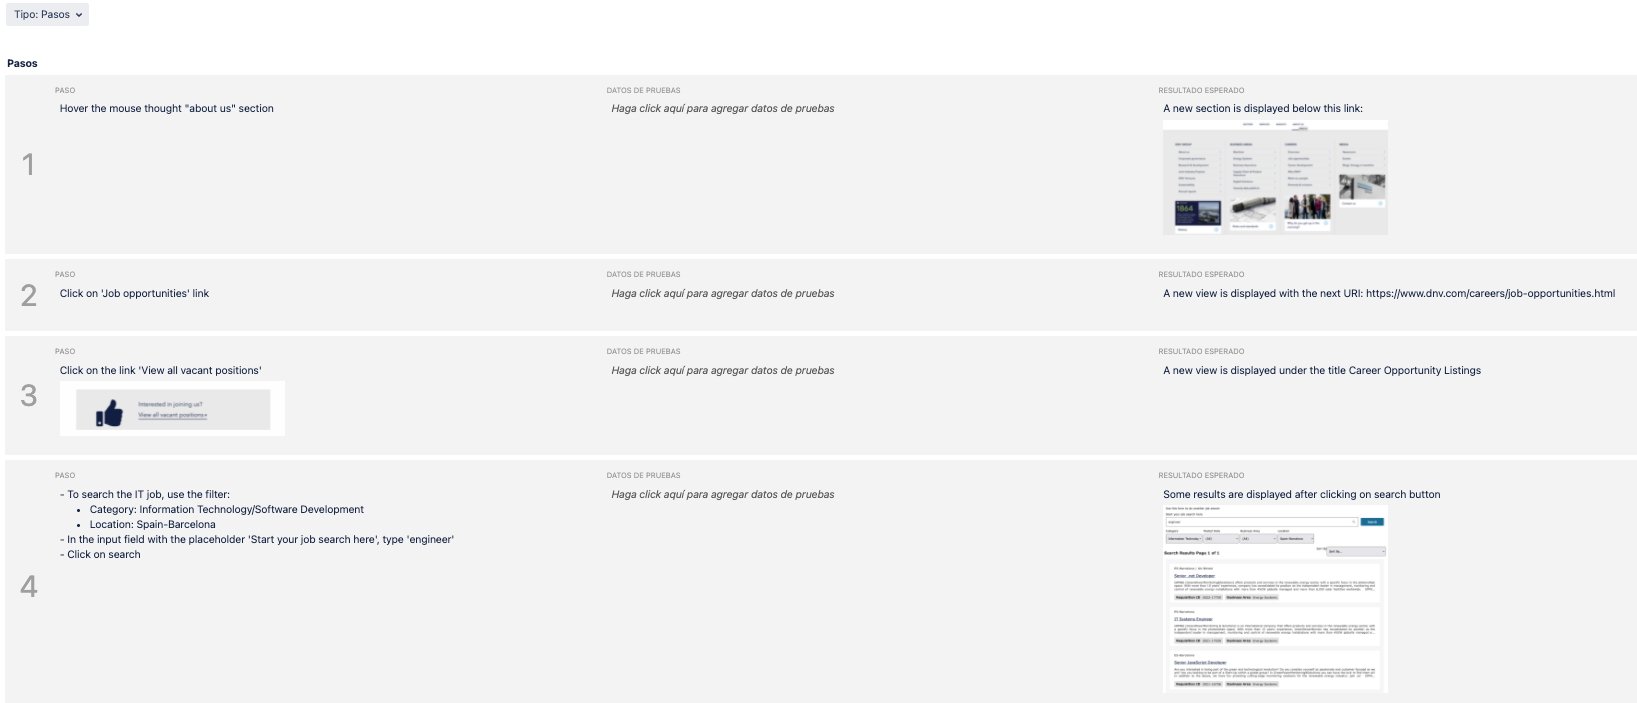
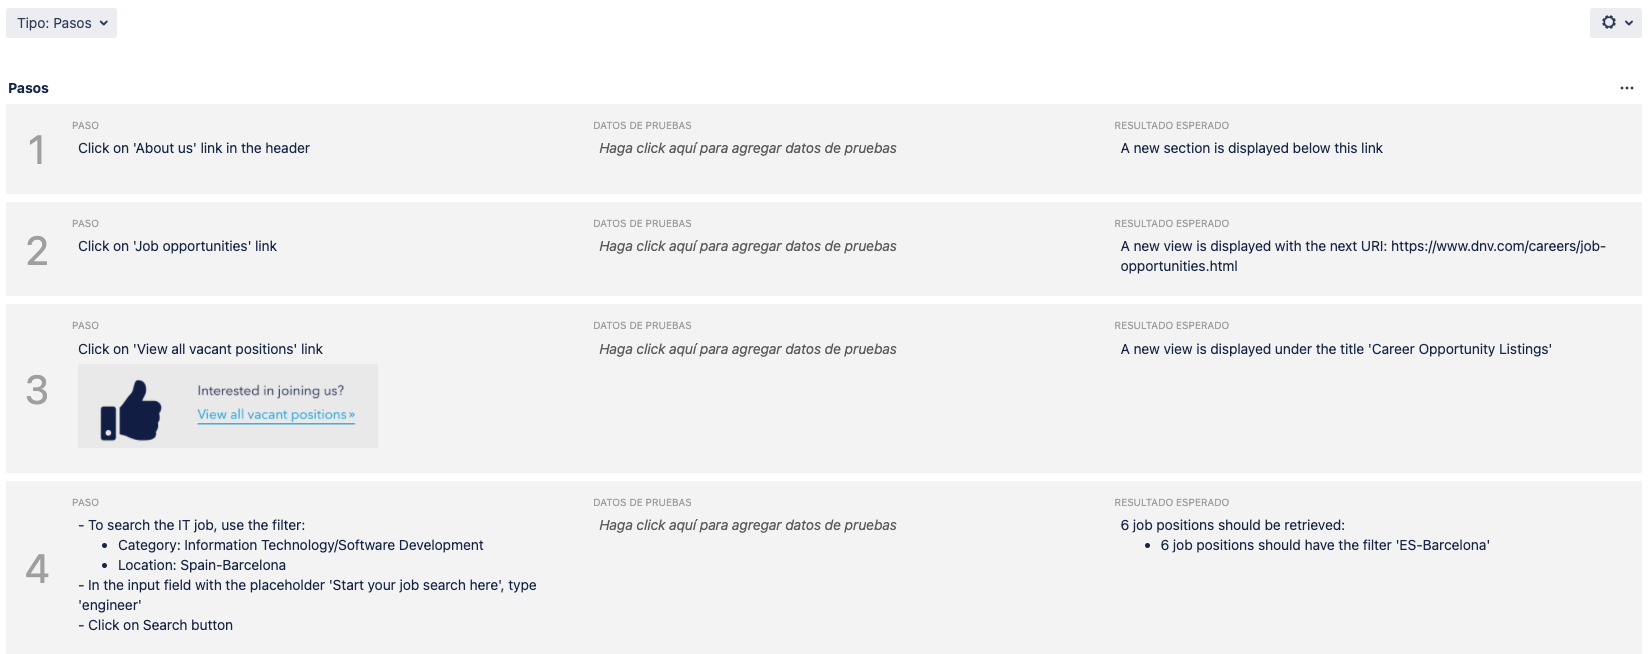
no message

diff --git a/tests/test_job_opportunity.py b/tests/test_job_opportunity.py
@@ -1,0 +1,25 @@
+
+from selenium import webdriver
+import pytest_check as check
+
+def test_job_opportunity():
+    browser = webdriver.Chrome()
+    browser.get('https://www.dnvgl.com/')
+    browser.find_element_by_css_selector("a[title='About us']").click()
+    browser.find_element_by_css_selector("a[title='Job opportunities']").click()
+    browser.find_element_by_css_selector("a[title='View all vacant positions']").click()
+    # navigate to the last opened tab
+    browser.switch_to.window(browser.window_handles[-1])
+    browser.switch_to_frame("#icims_content_iframe")
+    browser.find_element_by_css_selector("select#jsb_f_position_s").click()
+    browser.find_element_by_css_selector("a[title='Job opportunities']").click()
+    browser.find_element_by_css_selector("option[value='8730']").click()
+    browser.find_element_by_css_selector("select#jsb_f_location_s").click()
+    browser.find_element_by_css_selector("option[value='13611--Barcelona']").click()
+    browser.find_element_by_css_selector("input#jsb_f_keywords_i").send_keys('engineer')
+    browser.find_element_by_css_selector("input#jsb_form_submit_i").click()
+    # check expected results
+    results = len(browser.find_elements_by_css_selector("div.iCIMS_JobsTable div.row"))
+    location = len(browser.find_elements_by_xpath("//div[contains(@class,'iCIMS_JobsTable')]//span[text()='ES-Barcelona']"))
+    check.is_true(results == 6, f"failed to find expected number of position")
+    check.is_true(location == 6, f"failed to find expected number of position in BCN")

diff --git a/tests/test_search.py b/tests/test_search.py
@@ -1,0 +1,16 @@
+from selenium import webdriver
+import pytest_check as check
+
+def test_search():
+    browser = webdriver.Chrome()
+    browser.get('https://www.dnvgl.com/')
+    browser.find_element_by_css_selector("button.the-header__panel-toggle--search").click()
+    browser.find_element_by_css_selector("input#search-input").send_keys('aerospace')
+    browser.find_element_by_css_selector("label[for=search-submit]").click()
+    # check expected results
+    articles = len(browser.find_elements_by_css_selector("article.post-listed"))
+    article_capital_letter = len(browser.find_elements_by_xpath("//h2[contains(text(),'Aerospace')]"))
+    article_lower_case = len(browser.find_elements_by_xpath("//h2[contains(text(),'aerospace')]"))
+    check.is_true(articles == 5, f"failed to find expected number of articles")
+    check.is_true(article_capital_letter == 3, f"failed to find expected number of articles with the word 'aserospace' in the title")
+    check.is_true(article_lower_case == 2, f"failed to find expected number of articles with the word 'Aerospace' in the title")

diff --git a/runTests/README.md b/runTests/README.md
@@ -1,0 +1,9 @@
+# [GPM](../README.md) / Run Tests
+
+## Local installation
+
+1. Install PyEnv in any machine where will be used this exercise. Follow this link (Start from "1. Install pyenv" and follow the steps until "Success" section). !!!!WARNING!!!!!: use pyhton 3.8.6 or higher as version to install https://opensource.com/article/19/5/python-3-default-mac
+1. Clone the repo
+1. Run `pip install -r requirements.txt`
+1. Optional - Only for MAC - Add chromedriver as a secure application run: `xattr -d com.apple.quarantine core/assets/webdrivers/chromedriver` (Only for local webdrivers). This step can fail, but it is ok
+1. To run the test: in the folder **tests**, run `pytest test_example.py`

diff --git a/README.md b/README.md
@@ -1,10 +1,16 @@
 # GPM - Technical Test
 I am going to publish here all the points that I must resolve for the technical test
 
-## Points to resolve
+## Features to test
 
 - **Search something in the web browser**
 - **Look for all the opportunities as IT engineer in BCN**
 
+## Manual tests
+
 [Test plan](./testPlan/README.md)
 [Bugs found](./bugs/README.md)
+
+## Automated tests
+
+[Run tests](./runTests/README.md)

diff --git a/testPlan/README.md b/testPlan/README.md
@@ -10,3 +10,5 @@
 
 ![testcase2_details](./img/testcase2_details.png "test case 2 details")
 ![testcase2_steps](./img/testcase2_steps.png "test case 2 steps")
+
+Both test cases would build our final test plan

diff --git a/bugs/README.md b/bugs/README.md
@@ -1,4 +1,6 @@
-## Bugs found
+# [GPM](../README.md) /Bugs Found
+
+## bugs found
 
 * Home page - The image is not displayed properly in the 'Decarbonize shipping' article
 
